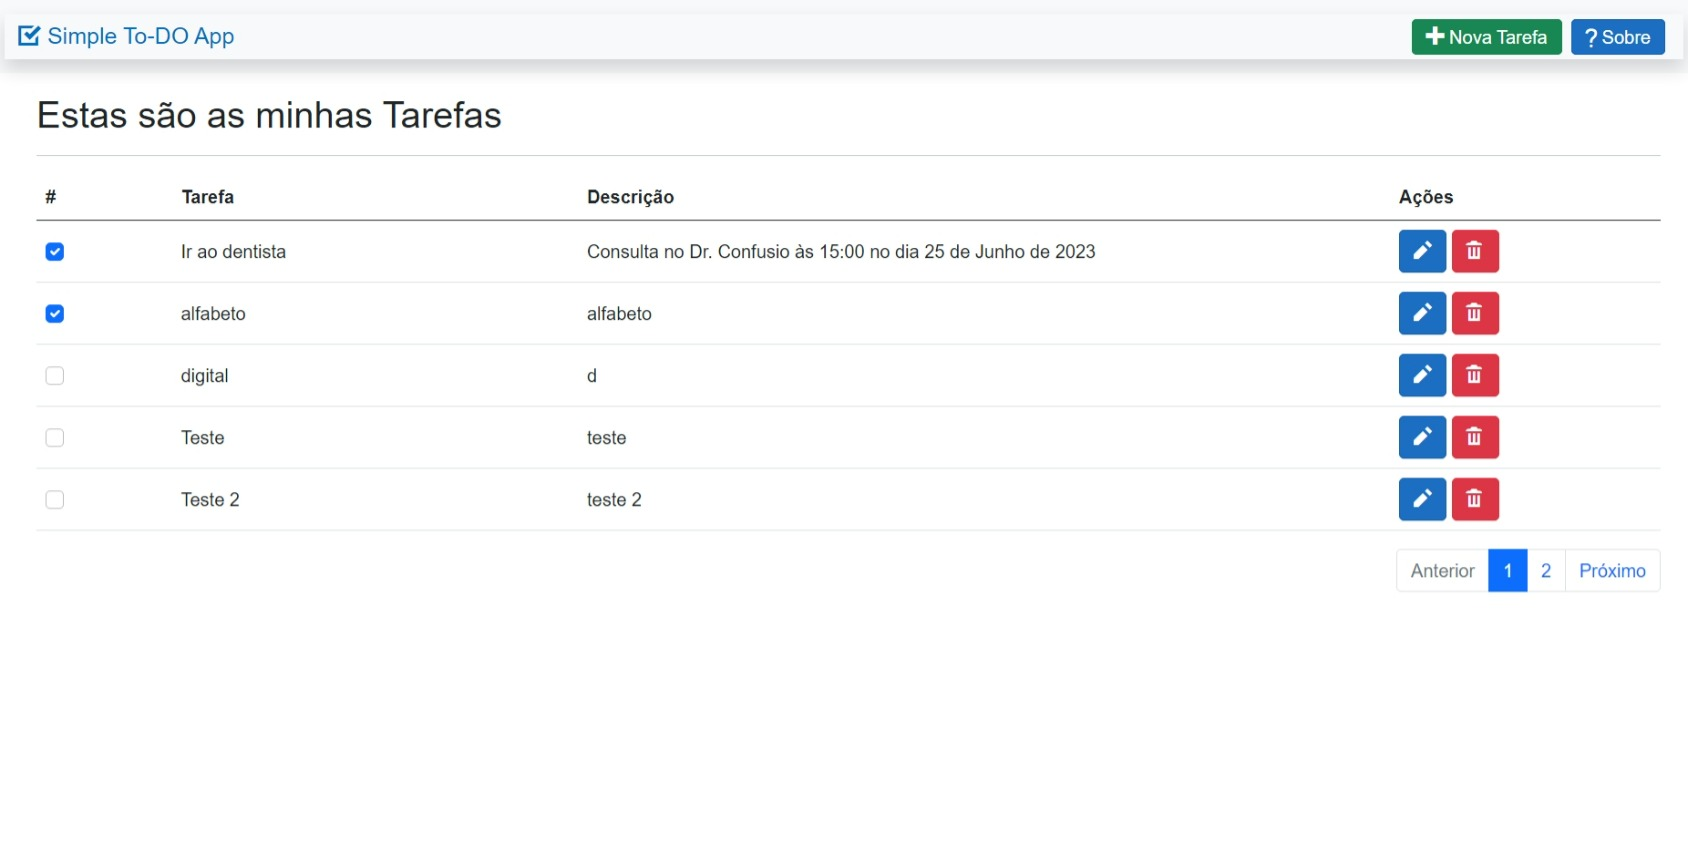
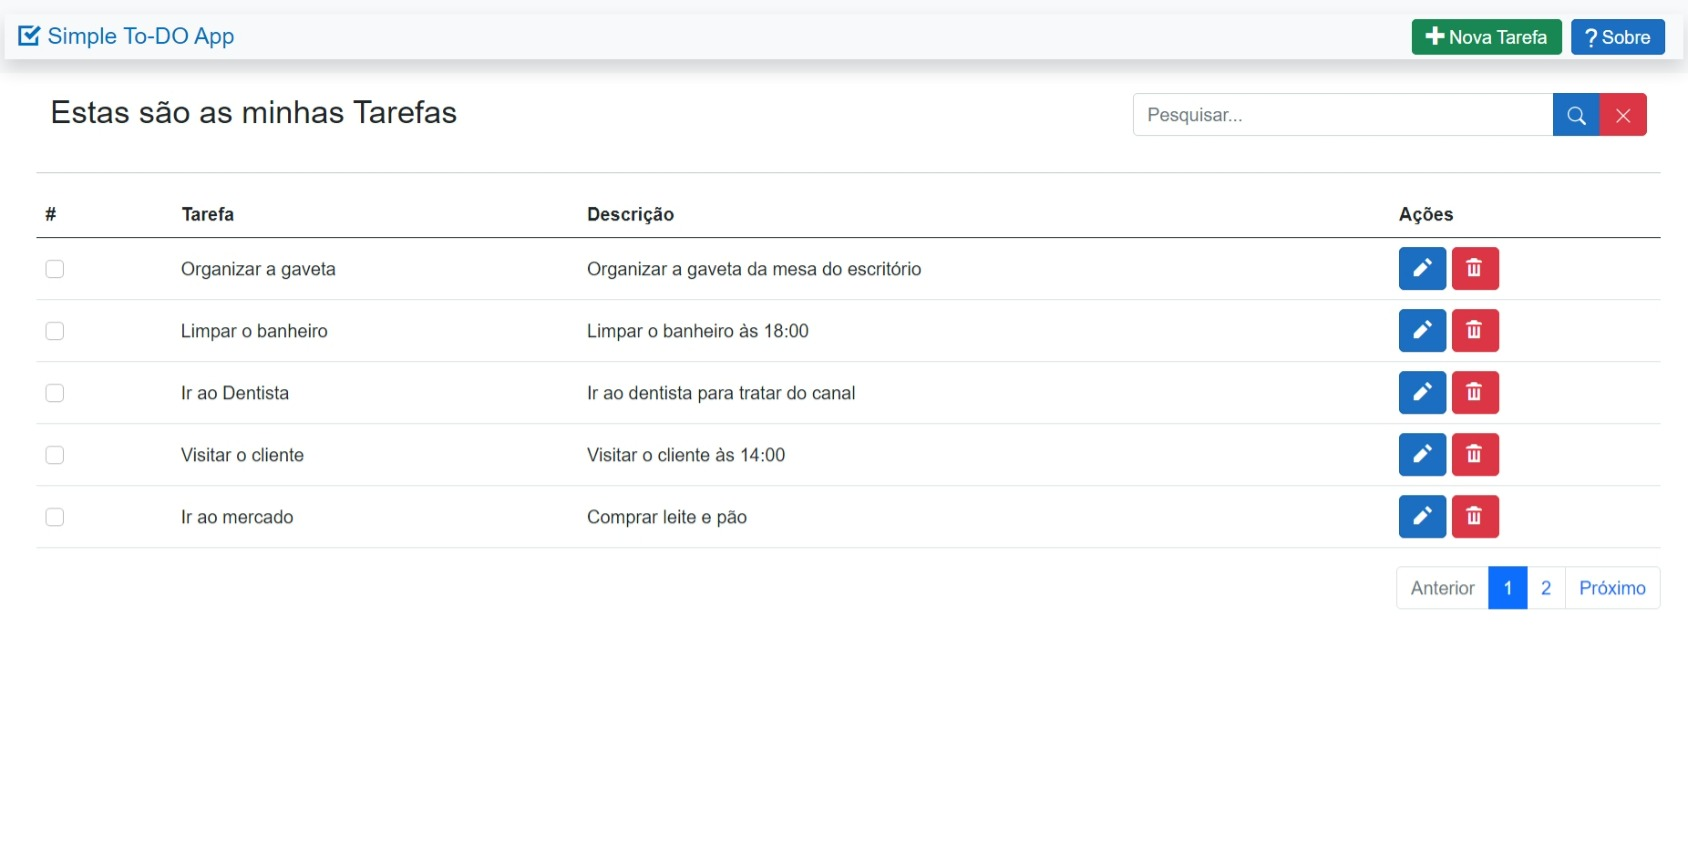
Update May 25, 2023
- Added Search box to be able to search for a specific task based on its name (Tarefa) or description (descrição)

diff --git a/SimpleToDOApp/Pages/Index.razor.cs b/SimpleToDOApp/Pages/Index.razor.cs
@@ -46,12 +46,27 @@ namespace SimpleToDOApp.Pages
             CarregarPagina(pagina);
         }
 
-        protected async void CarregarPagina(int pagina = 1)
+        protected async void CarregarPagina(int pagina = 1, string SearchTask = "")
         {
-            PaginaTarefas page = await MyTasks!.GetTarefasPage(pagina);
+            PaginaTarefas page = await MyTasks!.GetTarefasPage(pagina, SearchTask);
             Lista = page.tarefas.ToList();
             QuantidadeTotalPaginas = page.totalPaginas;
             StateHasChanged();
+        }
+
+        protected void Pesquisar(string Termo)
+        {
+            if (!string.IsNullOrEmpty(Termo))
+            {
+                paginaAtual = 1;
+                CarregarPagina(paginaAtual, Termo);
+            }
+        }
+
+        protected void LimparPesquisa()
+        {
+            paginaAtual = 1;
+            CarregarPagina();
         }
     }
 }

diff --git a/SimpleToDOApp/Services/Tarefas.cs b/SimpleToDOApp/Services/Tarefas.cs
@@ -82,7 +82,7 @@ namespace SimpleToDOApp.Services
             GravarBD();
         }
 
-        public async Task<PaginaTarefas> GetTarefasPage(int pageIndex = 1)
+        public async Task<PaginaTarefas> GetTarefasPage(int pageIndex = 1, string SearchTask = "")
         {
             await LerBD();
             if (Dados == null)
@@ -99,6 +99,11 @@ namespace SimpleToDOApp.Services
                 {
                     _tarefas = new List<Tarefa> { };
                 }
+            }
+
+            if(!string.IsNullOrEmpty(SearchTask))
+            {
+                _tarefas = _tarefas!.Where(_task => _task.tarefa.IndexOf(SearchTask, StringComparison.OrdinalIgnoreCase) >= 0 || _task.descricao.IndexOf(SearchTask, StringComparison.OrdinalIgnoreCase) >= 0).ToList();
             }
 
             double TotalPaginas = Math.Ceiling((double)_tarefas!.Count / QtdTarefasPorPagina);

diff --git a/SimpleToDOApp/Shared/SearchInput.razor.cs b/SimpleToDOApp/Shared/SearchInput.razor.cs
@@ -1,0 +1,27 @@
+using Microsoft.AspNetCore.Components;
+
+namespace SimpleToDOApp.Shared
+{
+    public class SearchInputBase : ComponentBase
+    {
+        public string? TermoPesquisa { get; set; }
+        [Parameter] public EventCallback<string> PesquisarTarefa { get; set; }
+        [Parameter] public EventCallback Limpar { get; set; }
+
+        protected async Task Pesquisar()
+        {
+            if (TermoPesquisa == null)
+            {
+                return;
+            }
+
+            await PesquisarTarefa.InvokeAsync(TermoPesquisa);
+        }
+
+        protected async Task LimparFiltro()
+        {
+            TermoPesquisa = null;
+            await Limpar.InvokeAsync();
+        }
+    }
+}

diff --git a/SimpleToDOApp/Services/ITarefas.cs b/SimpleToDOApp/Services/ITarefas.cs
@@ -10,6 +10,6 @@ namespace SimpleToDOApp.Services
         public bool RemoveTarefa(Guid _tarefaId);
         public void UpdateTarefa(Tarefa _tarefa);
         public void SetTaskDone(Guid _id, bool Done);
-        public Task<PaginaTarefas> GetTarefasPage(int pageIndex = 1);
+        public Task<PaginaTarefas> GetTarefasPage(int pageIndex = 1, string SearchTask = "");
     }
 }
